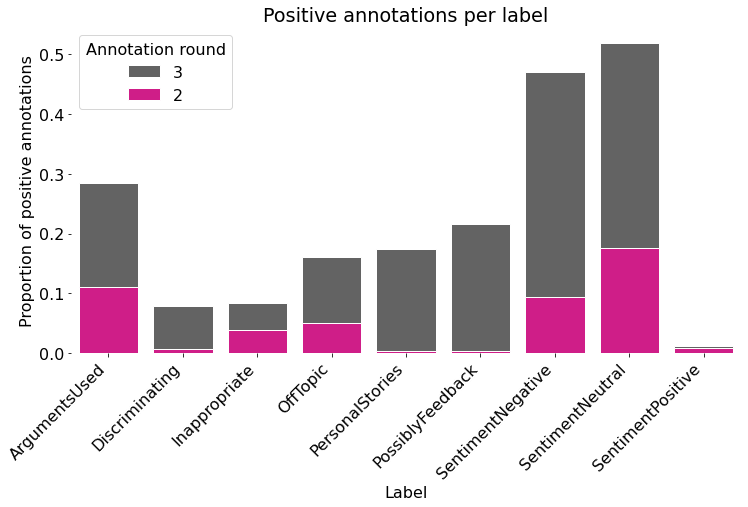
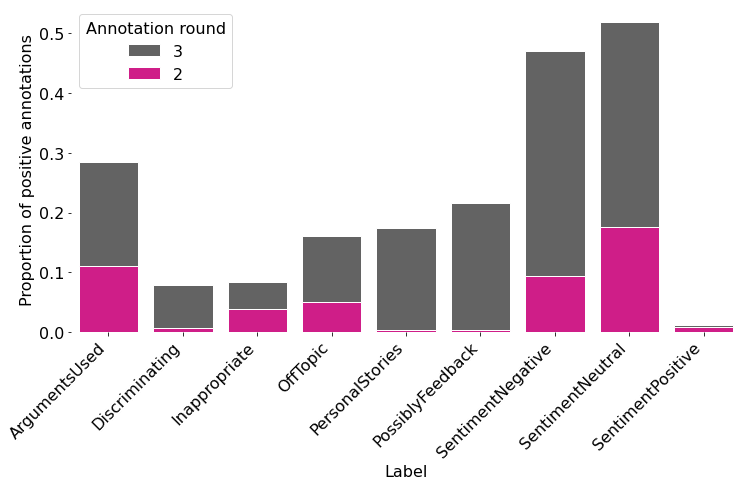
Issue #39 Remove title from plot for presentation

diff --git a/eda_label_distribution.py b/eda_label_distribution.py
@@ -118,7 +118,7 @@ sns.barplot(x = 'category', y = '2', data = df_ann_per,
             label = '2', color = COLOR_STANDARD[0], edgecolor = 'w')
 ax.legend(ncol = 2, loc = 'upper left')
 sns.despine(left = True, bottom = True)
-_ = g.set_title("Positive annotations per label")
+#_ = g.set_title("Positive annotations per label")
 _ = g.set(ylabel="Proportion of positive annotations", xlabel="Label")
 _ = g.legend(title="Annotation round")
 _ = g.set_xticklabels(
